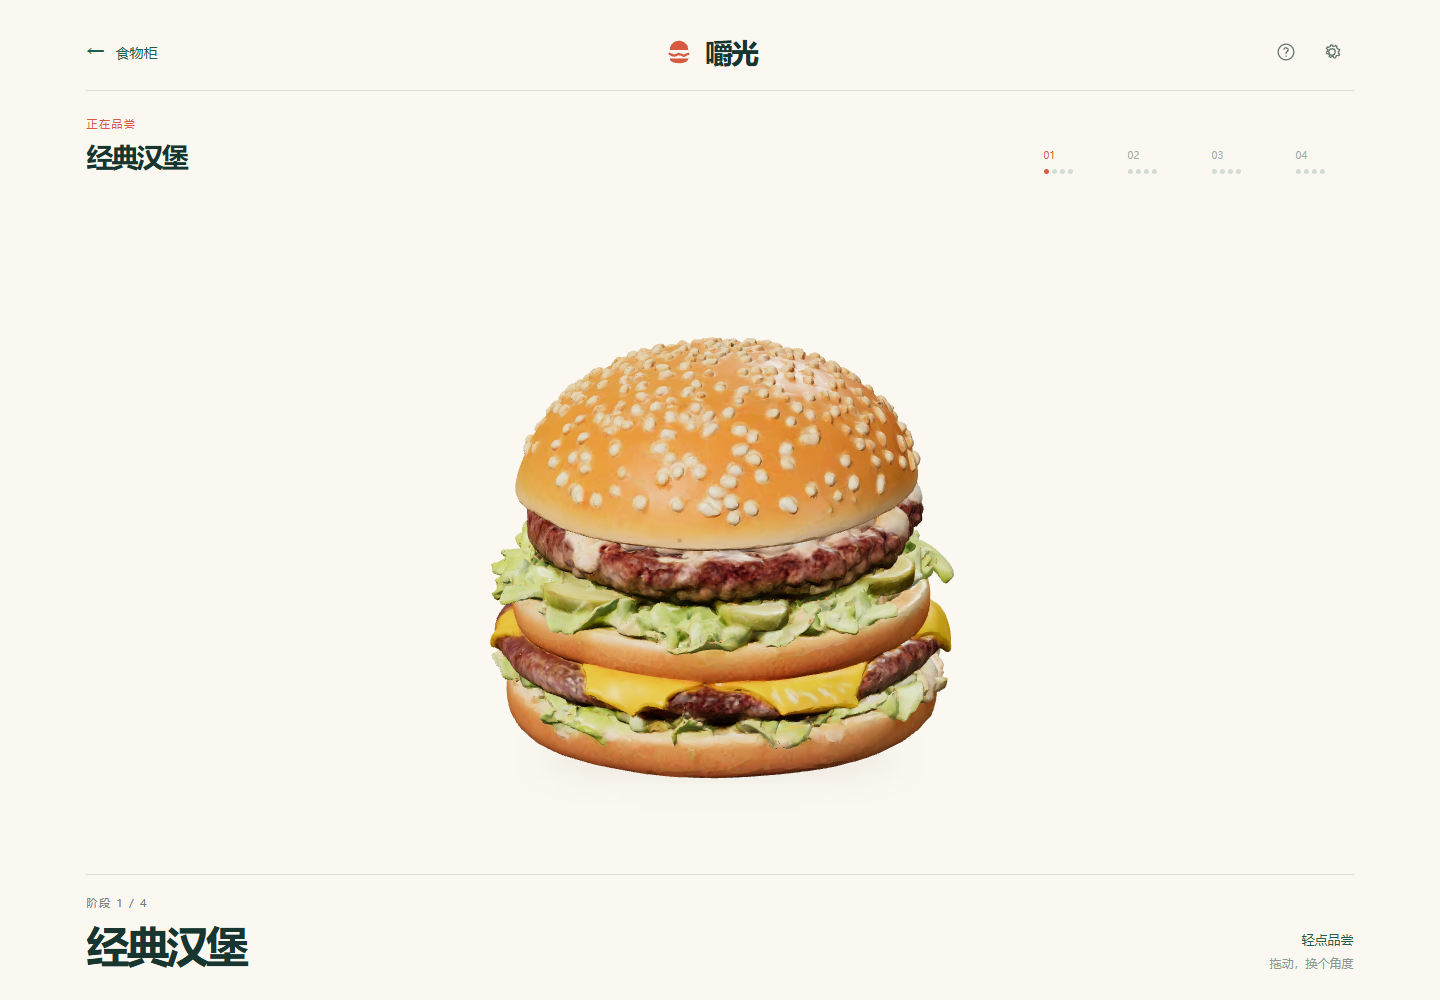
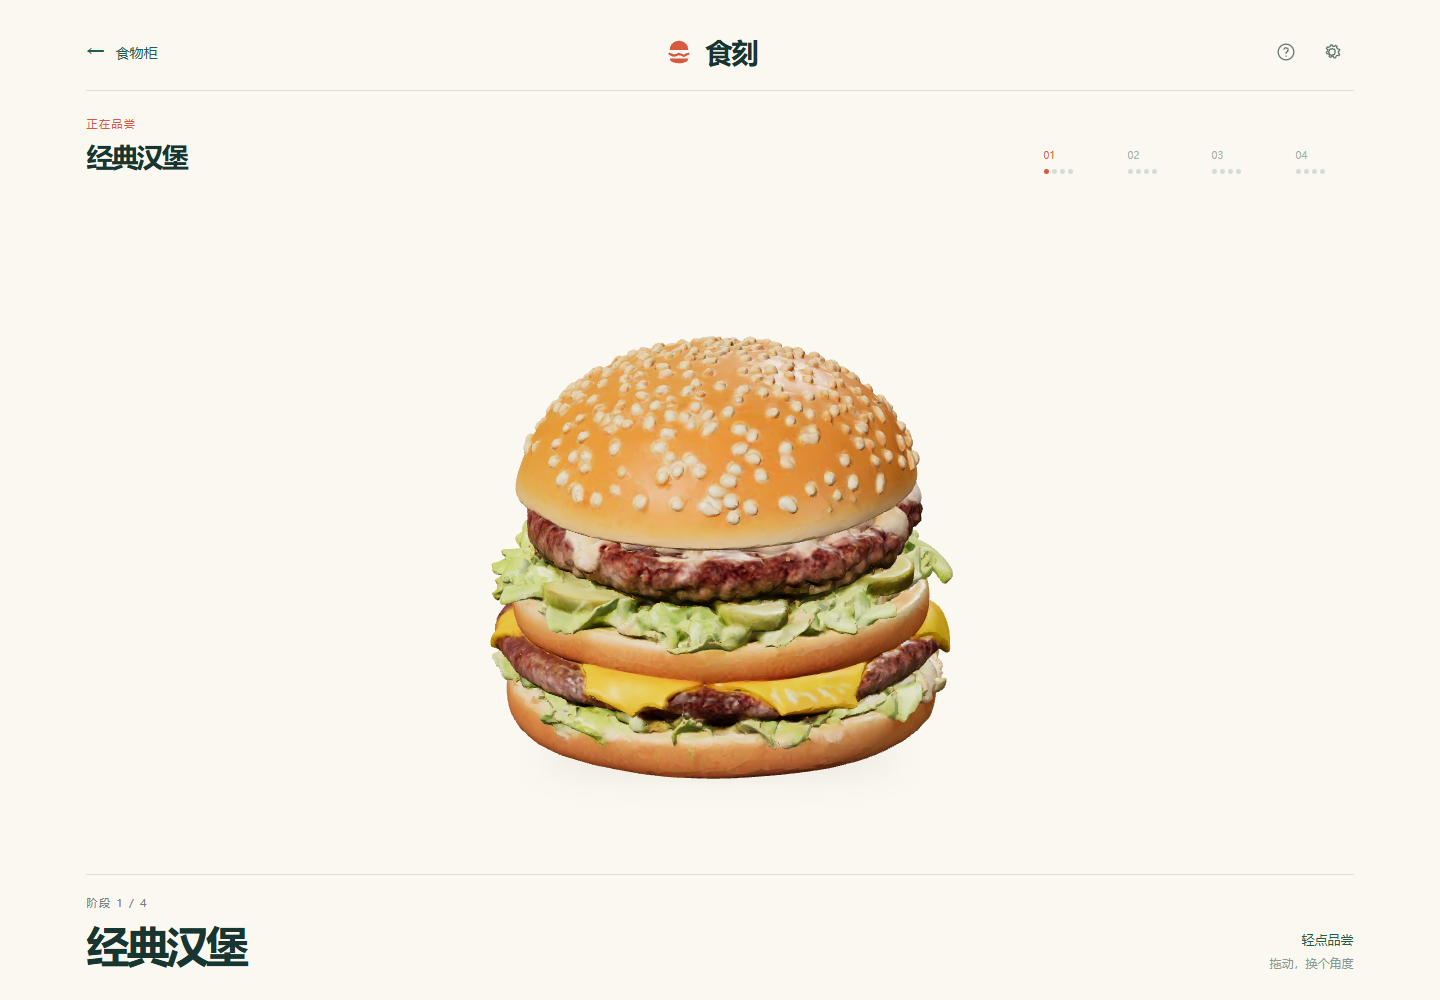
chore: rename project to 食刻 (FoodStage 3D)

diff --git a/src/core/settings.ts b/src/core/settings.ts
@@ -16,7 +16,9 @@ export const DEFAULT_SETTINGS: Readonly<Settings> = Object.freeze({
 
 export const defaults = DEFAULT_SETTINGS;
 
-const SETTINGS_KEY = 'jiaoguang-settings';
+const SETTINGS_KEY = 'foodstage-3d-settings';
+// Read-only compatibility preserves existing mute and accessibility preferences.
+const LEGACY_SETTINGS_KEY = 'jiaoguang-settings';
 
 function readStorage(storage?: Pick<Storage, 'getItem'>): Pick<Storage, 'getItem'> | undefined {
   if (storage) return storage;
@@ -53,7 +55,7 @@ export function sanitizeSettings(value: unknown): Settings {
 export function readSettings(storage?: Pick<Storage, 'getItem'>): Settings {
   try {
     const source = readStorage(storage);
-    const raw = source?.getItem(SETTINGS_KEY);
+    const raw = source?.getItem(SETTINGS_KEY) ?? source?.getItem(LEGACY_SETTINGS_KEY);
     return raw ? sanitizeSettings(JSON.parse(raw)) : sanitizeSettings(DEFAULT_SETTINGS);
   } catch {
     return sanitizeSettings(DEFAULT_SETTINGS);

diff --git a/src/core/settings.test.ts b/src/core/settings.test.ts
@@ -17,6 +17,15 @@ function memoryStorage(initial: Record<string, string> = {}): MemoryStorage {
 }
 
 describe('settings persistence', () => {
+  it('writes the FoodStage key and preserves preferences from the former brand', () => {
+    const settings = { ...DEFAULT_SETTINGS, sound: false };
+    const storage = memoryStorage({ 'jiaoguang-settings': JSON.stringify(settings) });
+    expect(readSettings(storage)).toEqual(settings);
+    saveSettings(settings, storage);
+    expect(JSON.parse(storage.data['foodstage-3d-settings']!)).toEqual(settings);
+    storage.data['foodstage-3d-settings'] = JSON.stringify({ ...settings, sound: true });
+    expect(readSettings(storage).sound).toBe(true);
+  });
   it('exports the requested defaults', () => {
     expect(DEFAULT_SETTINGS).toEqual({ sound: true, haptics: false, motion: 'system', sensitivity: 1 });
     expect(readSettings(memoryStorage())).toEqual(DEFAULT_SETTINGS);

diff --git a/src/App.tsx b/src/App.tsx
@@ -26,7 +26,7 @@ function useSystemReducedMotion() {
 }
 
 function Brand() {
-  return <div className="brand"><svg className="brand-mark" viewBox="0 0 32 32" fill="none" aria-hidden="true"><path d="M6 14c0-6 4.5-10 10-10s10 4 10 10H6ZM6 23h20c0 3-4 5-10 5S6 26 6 23Z" fill="currentColor"/><path d="m6 18 5 2 5-2 5 2 5-2" stroke="currentColor" strokeWidth="2.5" strokeLinecap="round"/></svg><h1>嚼光</h1></div>;
+  return <div className="brand"><svg className="brand-mark" viewBox="0 0 32 32" fill="none" aria-hidden="true"><path d="M6 14c0-6 4.5-10 10-10s10 4 10 10H6ZM6 23h20c0 3-4 5-10 5S6 26 6 23Z" fill="currentColor"/><path d="m6 18 5 2 5-2 5 2 5-2" stroke="currentColor" strokeWidth="2.5" strokeLinecap="round"/></svg><h1>食刻</h1></div>;
 }
 
 function AppHeader({ settings, onSettingsChange, onBack }: { settings: Settings; onSettingsChange: (settings: Settings) => void; onBack?: () => void }) {

diff --git a/tests/burger.spec.ts b/tests/burger.spec.ts
@@ -28,7 +28,7 @@ test('real model, drag isolation, four-bite transition and 16-bite replay', asyn
   await page.getByRole('button', { name: '开始品尝' }).click();
   await loaded; await idle(page, 0);
   await expect(page.locator('canvas')).toBeVisible();
-  await expect(page.locator('h1')).toHaveText('嚼光');
+  await expect(page.locator('h1')).toHaveText('食刻');
   await expect(page.locator('.progress')).toBeVisible();
   await expect(page.locator('.keyboard-hint')).toHaveCount(0);
   await expect(page.locator('.experience')).toHaveCSS('background-color', 'rgb(250, 248, 241)');

diff --git a/index.html b/index.html
@@ -5,7 +5,9 @@
     <meta name="viewport" content="width=device-width, initial-scale=1.0" />
     <meta name="theme-color" content="#F6F5F3" />
     <link rel="icon" href="data:," />
-    <title>嚼光</title>
+    <meta name="description" content="食刻（FoodStage 3D），可以转着看、点着吃的 3D 食物小游戏。" />
+    <meta name="application-name" content="食刻 FoodStage 3D" />
+    <title>食刻 · FoodStage 3D</title>
   </head>
   <body>
     <div id="root"></div>

diff --git a/README.md b/README.md
@@ -1,6 +1,8 @@
-# 嚼光
+# 食刻（FoodStage 3D）
 
-一个可以转着看、点着吃的 3D 食物小游戏。进入食物柜选择食物，开始后每种食物按自己的四阶段序列游玩；每阶段八口，点击食物直接进食，拖动食物观察角度。
+项目仓库：https://github.com/Fuya0/foodstage-3d
+
+一个可以转着看、点着吃的 3D 食物小游戏。进入食物柜选择食物，开始后每种食物按自己的四阶段序列游玩；每阶段四口，点击食物直接进食，拖动食物观察角度。
 
 ## 本地开发
 

diff --git a/docs/superpowers/specs/2026-10-30-burger-v1-design.md b/docs/superpowers/specs/2026-10-30-burger-v1-design.md
@@ -1,4 +1,4 @@
-# 嚼光：单汉堡 H5 首版设计
+# 食刻：单汉堡 H5 首版设计
 
 状态：用户于 2026-10-30 确认，授权在 D:/project 创建新仓库并开发。
 来源：https://ucnsm1bi3stq.feishu.cn/wiki/OmM0wnSEziebmjkXv8bcPo45nJd （读取 revision 11）。本说明覆盖旧设计中与首版范围冲突的要求。

diff --git a/docs/superpowers/plans/2026-10-31-bite-game.md b/docs/superpowers/plans/2026-10-31-bite-game.md
@@ -1,4 +1,4 @@
-# 嚼光 Bite Game Implementation Plan
+# 食刻 Bite Game Implementation Plan
 
 > **For agentic workers:** REQUIRED SUB-SKILL: Use subagent-driven-development or executing-plans to implement this plan task-by-task. Steps use checkbox syntax for tracking.
 

diff --git a/docs/superpowers/specs/2026-10-31-bite-game.md b/docs/superpowers/specs/2026-10-31-bite-game.md
@@ -1,4 +1,4 @@
-# 嚼光：食物小游戏重构
+# 食刻：食物小游戏重构
 
 用户已授权自行决定设计和实施，不要求中途询问方案。目标保留原有四阶段直接点吃与拖动观察，同时提供真正可进入的食物选择和设置。
 

diff --git a/docs/superpowers/plans/2026-10-30-burger-v1.md b/docs/superpowers/plans/2026-10-30-burger-v1.md
@@ -1,4 +1,4 @@
-# 嚼光首版 Implementation Plan
+# 食刻首版 Implementation Plan
 
 > **For agentic workers:** REQUIRED SUB-SKILL: Use subagent-driven-development to implement this plan task-by-task. Steps use checkbox (`- [ ]`) syntax for tracking.
 
